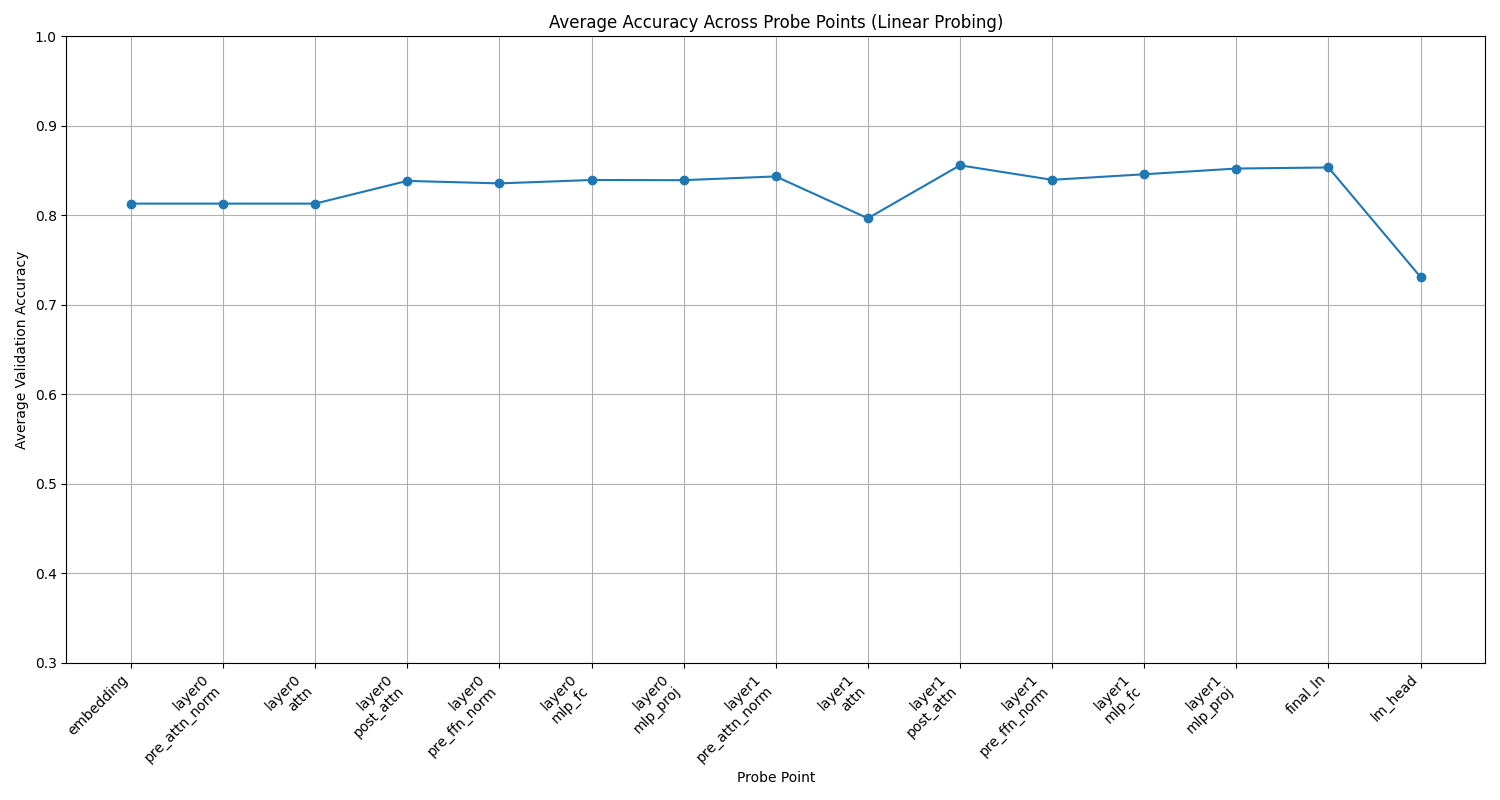
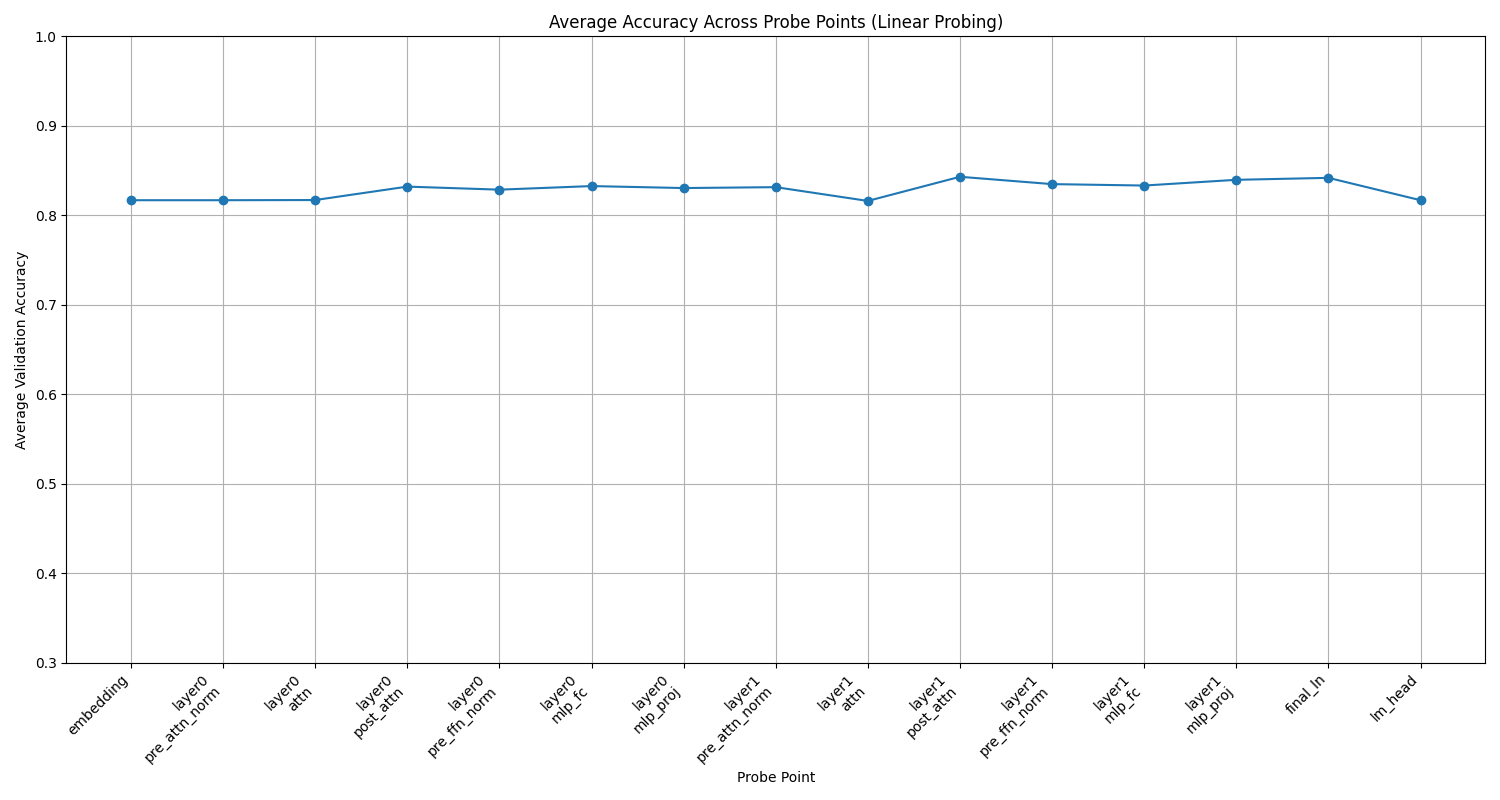
sae

Changed region(s): [[0.2147, 0.1875, 0.9507, 0.2812], [0.092, 0.25, 0.2147, 0.2812]]

diff --git a/probing_expert_txt.py b/probing_expert_txt.py
@@ -1,9 +1,9 @@
 import torch
+import torch.nn as nn
+import torch.optim as optim
 import numpy as np
 from sklearn.model_selection import KFold
-from sklearn.svm import LinearSVC
-from sklearn.metrics import accuracy_score, confusion_matrix
-from sklearn.multiclass import OneVsRestClassifier
+from sklearn.metrics import accuracy_score
 from sklearn.preprocessing import StandardScaler
 import pickle
 from tqdm import tqdm
@@ -15,6 +15,17 @@ import csv
 import seaborn as sns
 
 from extract_features import load_model, tokenize_and_pad
+
+class SparseAutoencoder(nn.Module):
+    def __init__(self, input_dim, encoding_dim):
+        super(SparseAutoencoder, self).__init__()
+        self.encoder = nn.Linear(input_dim, encoding_dim)
+        self.decoder = nn.Linear(encoding_dim, input_dim)
+    
+    def forward(self, x):
+        encoded = torch.relu(self.encoder(x))
+        decoded = self.decoder(encoded)
+        return encoded, decoded
 
 def get_probe_points(model):
     """Dynamically generate probe points based on model architecture."""
@@ -89,22 +100,20 @@ def extract_activations_all_points(model, games, tokenizer, device, batch_size=4
     return all_activations
 
 def prepare_labels(games):
-    """Prepare labels for the tic-tac-toe game results."""
+    """Prepare labels for win/draw classification."""
     labels = []
     for game in games:
         result = game.split(',')[1].strip()
-        if result == '1-0':
-            labels.append(0)  # X wins
-        elif result == '0-1':
-            labels.append(1)  # O wins
+        if result == '1/2-1/2':
+            labels.append(1)  # Draw
         else:
-            labels.append(2)  # Draw
+            labels.append(0)  # Win (for either X or O)
     return np.array(labels)
 
-def train_and_evaluate_probing_classifiers(activations, labels, max_iter=1000):
-    """Train and evaluate probing classifiers using LinearSVC."""
-    n_splits = 5
-
+def train_and_evaluate_sae(activations, labels, encoding_dim, device, n_splits=5, epochs=100, batch_size=32):
+    """Train and evaluate Sparse Autoencoder for probing."""
+    results = []
+    
     if activations.ndim == 3:
         activations = activations.mean(axis=1)
 
@@ -112,37 +121,48 @@ def train_and_evaluate_probing_classifiers(activations, labels, max_iter=1000):
     scaler = StandardScaler()
     activations_normalized = scaler.fit_transform(activations)
 
-    base_clf = LinearSVC(max_iter=max_iter, dual=False)
-    clf = OneVsRestClassifier(base_clf)
-
     kf = KFold(n_splits=n_splits, shuffle=True, random_state=42)
-    train_metrics = []
-    val_metrics = []
-    confusion_matrices = []
-
+    
     for train_index, val_index in kf.split(activations_normalized):
         X_train, X_val = activations_normalized[train_index], activations_normalized[val_index]
         y_train, y_val = labels[train_index], labels[val_index]
 
-        clf.fit(X_train, y_train)
+        sae = SparseAutoencoder(X_train.shape[1], encoding_dim).to(device)
+        criterion = nn.MSELoss()
+        optimizer = optim.Adam(sae.parameters())
 
-        train_pred = clf.predict(X_train)
-        val_pred = clf.predict(X_val)
+        # Train SAE
+        for epoch in range(epochs):
+            for i in range(0, len(X_train), batch_size):
+                batch = torch.FloatTensor(X_train[i:i+batch_size]).to(device)
+                optimizer.zero_grad()
+                encoded, decoded = sae(batch)
+                loss = criterion(decoded, batch) + 1 * torch.sum(torch.abs(encoded))  # L1 regularization
+                loss.backward()
+                optimizer.step()
 
-        train_metrics.append(accuracy_score(y_train, train_pred))
-        val_metrics.append(accuracy_score(y_val, val_pred))
-        confusion_matrices.append(confusion_matrix(y_val, val_pred))
+        # Evaluate
+        sae.eval()
+        with torch.no_grad():
+            train_encoded, _ = sae(torch.FloatTensor(X_train).to(device))
+            val_encoded, _ = sae(torch.FloatTensor(X_val).to(device))
 
-    results = {
-        'train_accuracy': np.mean(train_metrics),
-        'val_accuracy': np.mean(val_metrics),
-        'confusion_matrix': np.mean(confusion_matrices, axis=0)
-    }
+        # Use mean activation of encoded layer as prediction
+        train_pred = (train_encoded.mean(dim=1) > 0.5).float().cpu().numpy()
+        val_pred = (val_encoded.mean(dim=1) > 0.5).float().cpu().numpy()
+
+        train_accuracy = accuracy_score(y_train, train_pred)
+        val_accuracy = accuracy_score(y_val, val_pred)
+
+        results.append({
+            'train_accuracy': train_accuracy,
+            'val_accuracy': val_accuracy
+        })
 
     return results
 
-def process_all_points(model, games, tokenizer, device, labels, max_iter=1000):
-    """Process all probe points: extract activations and train probing classifiers."""
+def process_all_points(model, games, tokenizer, device, labels, encoding_dim=64):
+    """Process all probe points: extract activations and train SAE for probing."""
     try:
         print("Starting to process all probe points")
         all_activations = extract_activations_all_points(model, games, tokenizer, device)
@@ -156,11 +176,14 @@ def process_all_points(model, games, tokenizer, device, labels, max_iter=1000):
             print(f"Processing probe point: {point}")
             print(f"Activations shape: {activations.shape}")
 
-            results = train_and_evaluate_probing_classifiers(activations, labels, max_iter=max_iter)
+            results = train_and_evaluate_sae(activations, labels, encoding_dim, device)
+
+            avg_train_accuracy = np.mean([result['train_accuracy'] for result in results])
+            avg_val_accuracy = np.mean([result['val_accuracy'] for result in results])
 
             print(f"\n{point} Summary:")
-            print(f"  Average Train Accuracy: {results['train_accuracy']:.4f}")
-            print(f"  Average Validation Accuracy: {results['val_accuracy']:.4f}")
+            print(f"  Average Train Accuracy: {avg_train_accuracy:.4f}")
+            print(f"  Average Validation Accuracy: {avg_val_accuracy:.4f}")
             print()
 
             all_results[point] = results
@@ -180,7 +203,7 @@ def generate_graphs(all_results):
     
     # Plotting average accuracy across probe points
     plt.figure(figsize=(15, 8))
-    avg_accuracies = [results['val_accuracy'] for results in all_results.values()]
+    avg_accuracies = [np.mean([result['val_accuracy'] for result in results]) for results in all_results.values()]
 
     # Create custom x-axis labels
     x_labels = []
@@ -196,35 +219,23 @@ def generate_graphs(all_results):
     plt.plot(x_ticks, avg_accuracies, marker='o')
     plt.xlabel('Probe Point')
     plt.ylabel('Average Validation Accuracy')
-    plt.title('Average Accuracy Across Probe Points (Linear Probing)')
+    plt.title('Average Accuracy Across Probe Points (SAE Probing)')
     plt.xticks(x_ticks, x_labels, rotation=45, ha='right')
-    plt.ylim(0.3, 1)
+    plt.ylim(0.45, 1)
     plt.grid(True)
     plt.tight_layout()
-    plt.savefig('assets/txt_accuracy_across_probe_points.png')
+    plt.savefig('assets/txt_accuracy_across_probe_points_sae.png')
     plt.close()
 
     # Generate CSV file
-    with open('validation_accuracy.csv', 'w', newline='') as csvfile:
+    with open('validation_accuracy_sae.csv', 'w', newline='') as csvfile:
         writer = csv.writer(csvfile)
-        writer.writerow(['Probe Point', 'Validation Accuracy'])
+        writer.writerow(['Probe Point', 'Average Validation Accuracy'])
         for point, results in all_results.items():
-            writer.writerow([point, results['val_accuracy']])
+            avg_accuracy = np.mean([result['val_accuracy'] for result in results])
+            writer.writerow([point, avg_accuracy])
 
-    print("CSV file 'validation_accuracy.csv' has been generated.")
-
-    # Generate confusion matrices
-    os.makedirs('assets/confusion_matrices', exist_ok=True)
-    for point, results in all_results.items():
-        plt.figure(figsize=(8, 6))
-        sns.heatmap(results['confusion_matrix'], annot=True, fmt='d', cmap='Blues')
-        plt.title(f'Confusion Matrix - {point}')
-        plt.xlabel('Predicted Label')
-        plt.ylabel('True Label')
-        plt.savefig(f'assets/confusion_matrices/confusion_matrix_{point}.png')
-        plt.close()
-
-    print("Confusion matrices have been saved in the assets/confusion_matrices directory.")
+    print("CSV file 'validation_accuracy_sae.csv' has been generated.")
 
 def main():
     device = torch.device("cuda:0" if torch.cuda.is_available() else "mps" if torch.backends.mps.is_available() else "cpu")
@@ -238,7 +249,7 @@ def main():
 
     # Load and sample games
     with open("data/txt/all_tic_tac_toe_games.csv", 'r') as file:
-        all_games = [row for row in file]
+        all_games = [f";{row}" for row in file]
 
     random.shuffle(all_games)
     games = all_games[:5000]  # Sample 5000 games for processing

diff --git a/prh.py b/prh.py
@@ -9,6 +9,15 @@ from data.img.prepare_img import load_and_process_image
 from alignment_metrics import AlignmentMetrics
 
 def process_move(move):
+    """
+    Processes a move string to ensure it's a valid tic-tac-toe move.
+
+    Args:
+        move (str): A string representing a move, e.g., 'A1', 'B3'.
+
+    Returns:
+        str: The original move string if it's valid, otherwise None.
+    """
     if len(move) != 3:
         return None
     try:
@@ -19,6 +28,7 @@ def process_move(move):
     except ValueError:
         pass
     return None
+
 
 def extract_activations(model, input_tensor):
     activations = {}
@@ -59,12 +69,12 @@ def extract_representations(model, games, is_image_model, device, tokenizer=None
         with torch.no_grad():
             if is_image_model:
                 print(f"Processing game {i}: {game}")
-                moves = game[1:].split()  # Supprimer le point-virgule initial
+                moves = game[1:].split()  # Remove the leading semicolon
                 valid_moves = [process_move(move) for move in moves if process_move(move) is not None]
                 
                 if len(valid_moves) != len(moves):
                     print(f"Warning: Game {i} has invalid moves. Original: {moves}, Processed: {valid_moves}")
-                    continue  # Passer à la partie suivante si des mouvements sont invalides
+                    continue  # Skip to the next game if there are invalid moves
                 
                 try:
                     img = create_board_image(valid_moves)
@@ -85,7 +95,7 @@ def extract_representations(model, games, is_image_model, device, tokenizer=None
                     continue
             
             activations = extract_activations(model, input_tensor)
-            # Concaténer toutes les activations en un seul vecteur
+            # Concatenate all activations into a single vector
             concatenated_activations = np.concatenate([act.flatten() for act in activations.values()])
             all_activations.append(concatenated_activations)
     
@@ -95,7 +105,7 @@ def extract_representations(model, games, is_image_model, device, tokenizer=None
     return np.array(all_activations)
 
 def compare_activations(img_activations, txt_activations):
-    # Assurez-vous que les deux ensembles d'activations ont le même nombre d'exemples
+    # Ensure both sets of activations have the same number of samples
     min_games = min(img_activations.shape[0], txt_activations.shape[0])
     img_activations = img_activations[:min_games]
     txt_activations = txt_activations[:min_games]
@@ -136,6 +146,11 @@ def generate_graph(results):
     print("Graph saved as 'metrics_comparison.png'")
 
 def generate_csv(results):
+    """Generates a CSV file containing the comparison metrics.
+
+    Args:
+        results (dict): A dictionary where keys are metric names and values are metric values.
+    """
     with open('assets/prh_metrics_comparison.csv', 'w', newline='') as csvfile:
         writer = csv.writer(csvfile)
         writer.writerow(['Metric', 'Value'])
@@ -145,8 +160,10 @@ def generate_csv(results):
     
     print("CSV file saved as 'metrics_comparison.csv'")
 
+
 def main():
-    device = torch.device("cuda" if torch.cuda.is_available() else "cpu")
+    device = torch.device("cuda" if torch.cuda.is_available() else "mps" if torch.backends.mps.is_available() else "cpu")
+
     
     img_model = load_model("out-img-models/ckpt_iter_3000.pt").to(device)
     txt_model = load_model("out-txt-models/ckpt_iter_3200.pt").to(device)
@@ -154,7 +171,7 @@ def main():
     with open("data/txt/all_tic_tac_toe_games.csv", 'r') as file:
         all_games = [f";{row.split(',')[0]}" for row in file]
     
-    games = all_games[:100]  # Échantillon de 100 jeux pour le test
+    games = all_games[:100]  # Sample of 100 games for testing
     
     with open('data/txt/meta.pkl', 'rb') as f:
         vocab_info = pickle.load(f)
@@ -166,7 +183,7 @@ def main():
         
         results = compare_activations(img_activations, txt_activations)
         
-        print("Résultats de la comparaison globale des modèles:")
+        print("Global model comparison results:")
         for metric, value in results.items():
             print(f"  {metric}: {value}")
         
@@ -174,7 +191,7 @@ def main():
         generate_csv(results)
         
     except Exception as e:
-        print(f"Une erreur est survenue lors de la comparaison des modèles: {str(e)}")
+        print(f"An error occurred while comparing the models: {str(e)}")
         import traceback
         traceback.print_exc()
 
